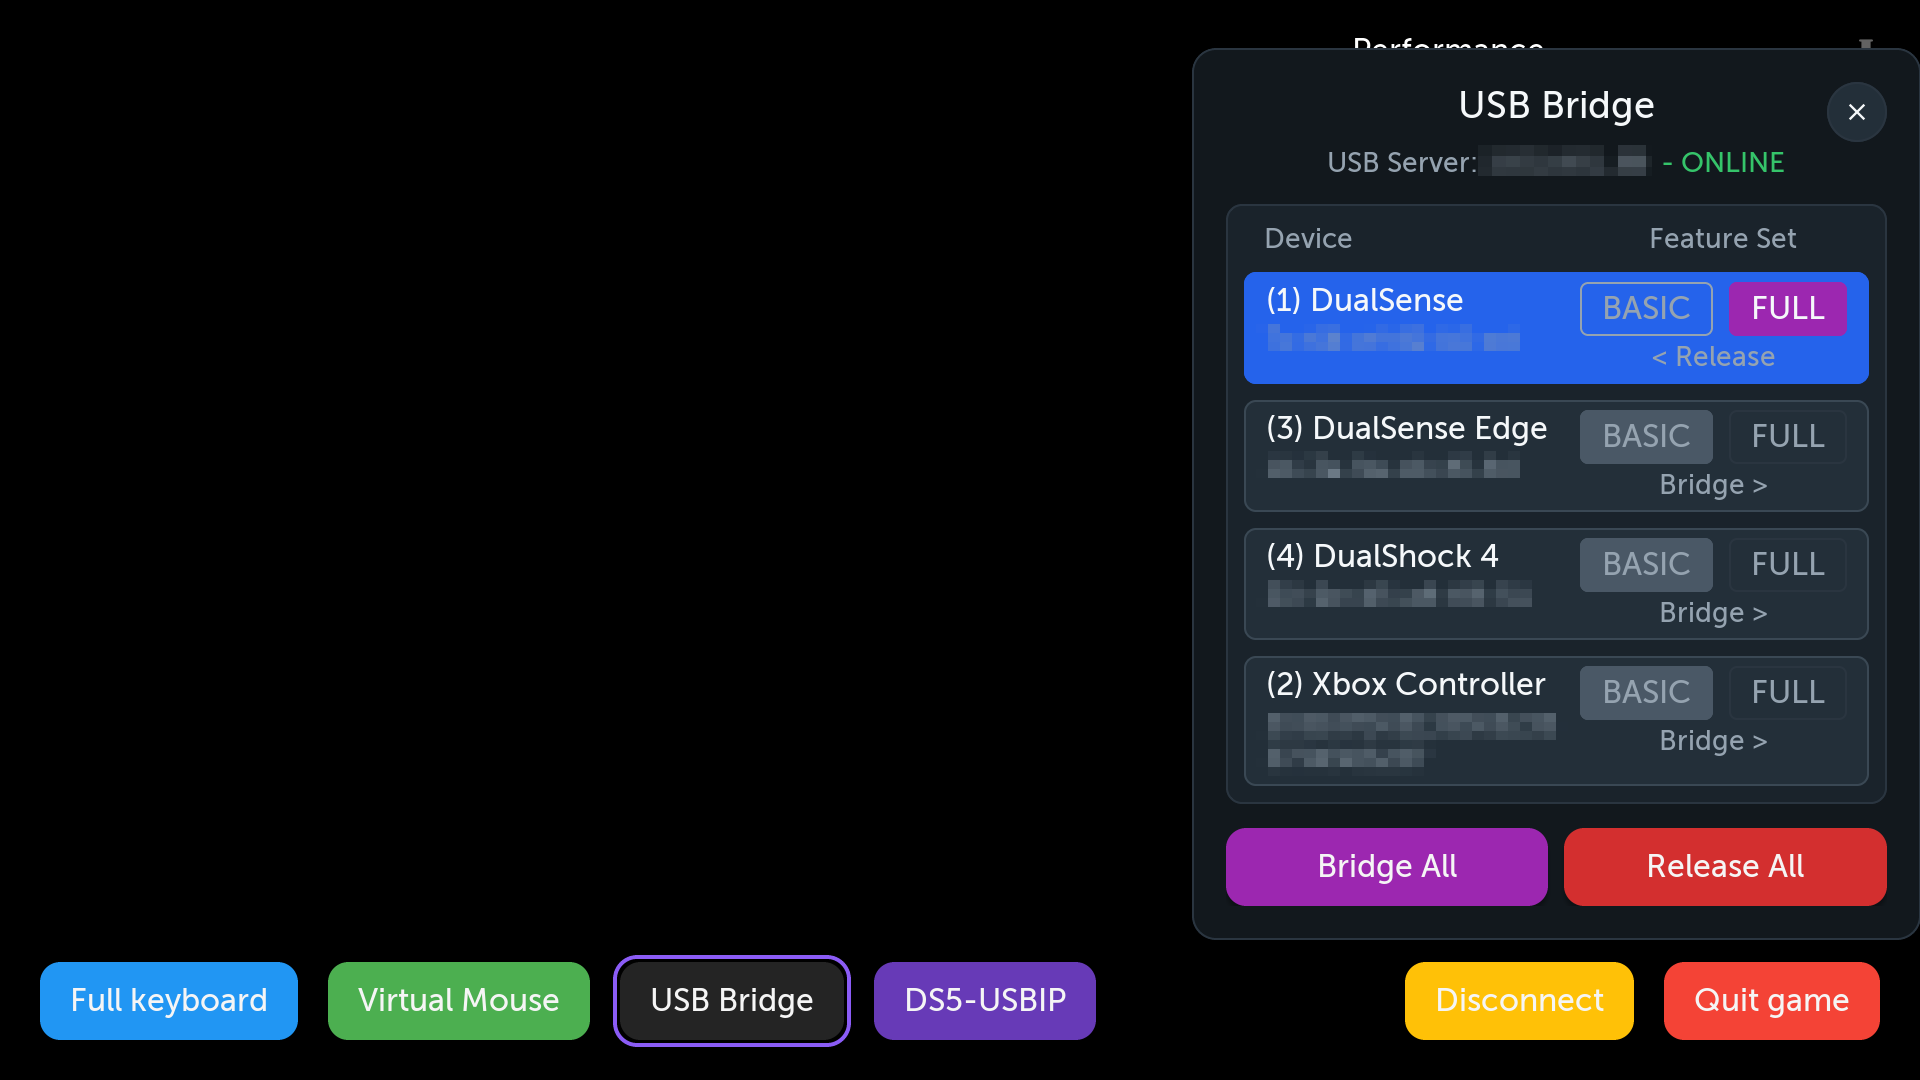
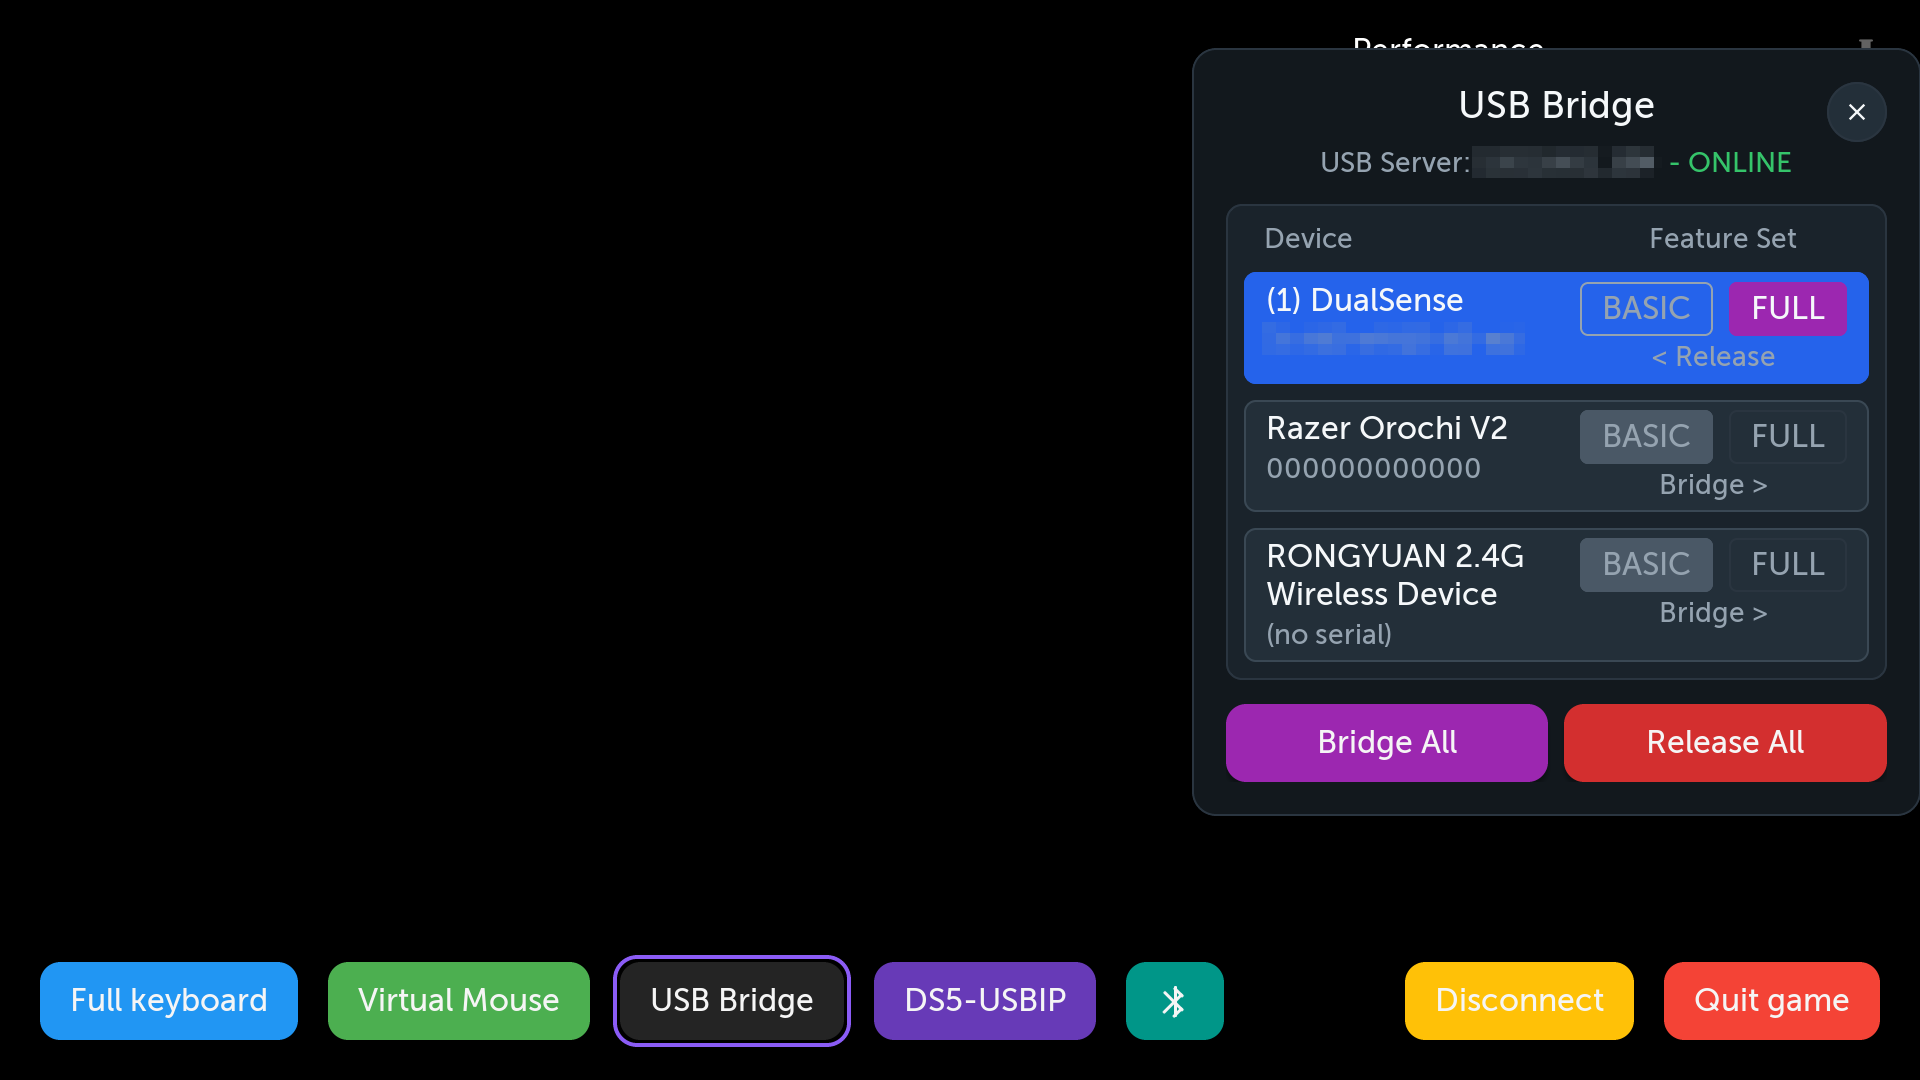
README: a Screenshots section
USB Bridge, the Streaming Menu and Cursor features, and the Bluetooth manager, as
full-screen thumbnails, two to a row, that open full size. The USB Bridge panel
picture is retaken, and the three older pictures the README never used are gone.

diff --git a/README.md b/README.md
@@ -105,6 +105,29 @@ Located at **Settings (⚙) → USB Bridge**.
 | **Cancel pairing and connecting** | Connecting and PIN pairing processes can be cancelled mid run. |
 | **Cosmetic changes** | • Purple highlight selector with Play and Stop buttons on streaming app that react under a pointer.<br>• The profile box is hidden when there is only one profile. |
 
+## Screenshots
+
+### USB Bridge
+
+<p>
+<a href="docs/images/aurora-usb-bridge-panel.png"><img src="docs/images/aurora-usb-bridge-panel.png" alt="USB Bridge panel" width="49%"></a>
+<a href="docs/images/aurora-usb-bridge-settings.png"><img src="docs/images/aurora-usb-bridge-settings.png" alt="USB Bridge settings" width="49%"></a>
+</p>
+
+### Streaming Menu and Cursor features
+
+<p>
+<a href="docs/images/aurora-streaming-menu.jpg"><img src="docs/images/aurora-streaming-menu.jpg" alt="Streaming menu" width="49%"></a>
+<a href="docs/images/aurora-cursor-alignment.png"><img src="docs/images/aurora-cursor-alignment.png" alt="Cursor alignment bar" width="49%"></a>
+</p>
+
+### Bluetooth manager
+
+<p>
+<a href="docs/images/aurora-bluetooth-overlay.png"><img src="docs/images/aurora-bluetooth-overlay.png" alt="Bluetooth Devices panel over the streaming overlay" width="49%"></a>
+<a href="docs/images/aurora-bluetooth-dashboard.jpg"><img src="docs/images/aurora-bluetooth-dashboard.jpg" alt="Bluetooth Devices panel in the dashboard" width="49%"></a>
+</p>
+
 ## Why this exists
 
 A DualSense connected to a webOS TV over Bluetooth already reached a PC with its
